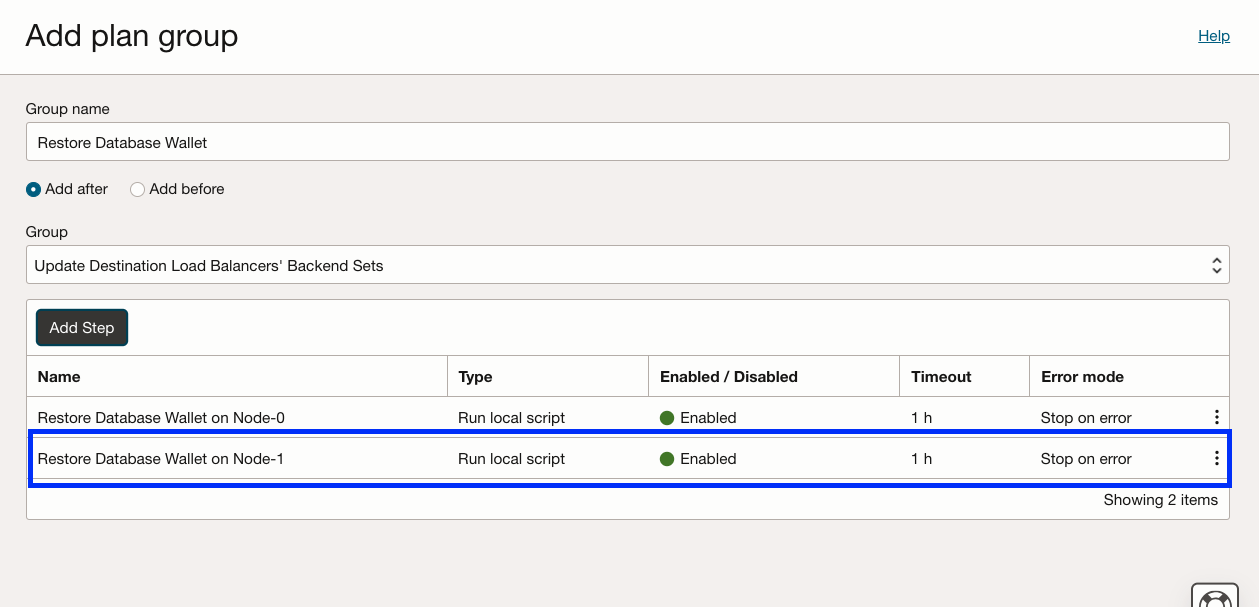
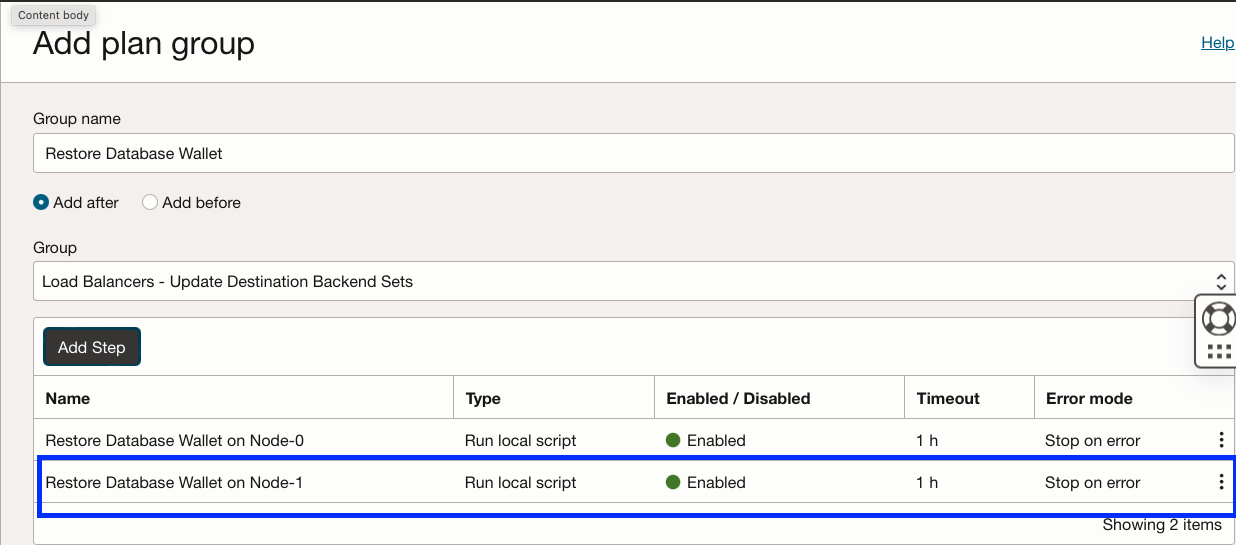
OCW 2024 changes for TUT
OCW 2024 changes for TUT

Changed region(s): [[0.0, 0.156, 1.0, 1.0], [0.0, 0.0, 1.0, 0.1248]]

diff --git a/oci-fullstackdrs/failover-execute/failover-execute-ocw24.md b/oci-fullstackdrs/failover-execute/failover-execute-ocw24.md
@@ -66,9 +66,9 @@ Watch the video below for a quick walk-through of the lab.
 
     ![drpg execute monitor progress](./images/phoenix-executefo-moving-new.png)
 
-6.  Keep monitoring the rest of the groups and steps; each step will complete depending on the actual task (DB Failover, Launch VM, Execute scripts ), etc.). For example, Autonomous DB Failover will take more time when comparing to Launching VMs. You can verify the start and end of each step, total duration, logs, etc.
+6.  Keep monitoring the rest of the groups and steps; each step will complete depending on the actual task (DB Failover, Launch VM,Update Load Balancer, Execute scripts ), etc.). For example, Autonomous DB Failover will take more time when comparing to Launching VMs. You can verify the start and end of each step, total duration, logs, etc.
 
-    ![drpg execute monitor progress1 ](./images/phoenix-executefo-moving1-new.png)
+    ![drpg execute monitor progress1 ](./images/phoenix-executefo-moving-new.png)
 
 7.  Wait for all the steps to complete successfully.  It is important to monitor the progress of each step and take necessary actions in case of any failures.
 
@@ -76,7 +76,7 @@ Watch the video below for a quick walk-through of the lab.
 
 ## Task 3: Validate the Failover plan
 
-1.  From the plan execution details, verify the duration of each step, status, duration of the entire failover plan, etc. *It is essential to have successful completion of all steps*. In this example it took around **25 minutes** to complete.These timings will vary as it has depending factors like ATP Data Guard failover, compute launch,script execution etc.Use the **Expand all** button to expand all the steps and the **Collapse all** button for collapsing. Use the view or download log option to see step execution details.
+1.  From the plan execution details, verify the duration of each step, status, duration of the entire failover plan, etc. *It is essential to have successful completion of all steps*. In this example it took around **12 minutes** to complete.These timings will vary as it has depending factors like ATP Data Guard failover,compute launch,update load balancer,script execution etc.Use the **Expand all** button to expand all the steps and the **Collapse all** button for collapse. Use the view or download log option to see step execution details.
 
     ![drpg execution done](./images/phoenix-executefo-done-new.png)
 
@@ -91,4 +91,4 @@ Refer to the **Troubleshooting tips** section for known failures and corrective 
 ## Acknowledgements
 
 - **Author** - Suraj Ramesh,Principal Product Manager,Oracle Database High Availability (HA), Scalability and Maximum Availability Architecture (MAA)
-- **Last Updated By/Date** - Suraj Ramesh,July 2024
+- **Last Updated By/Date** - Suraj Ramesh,August 2024
